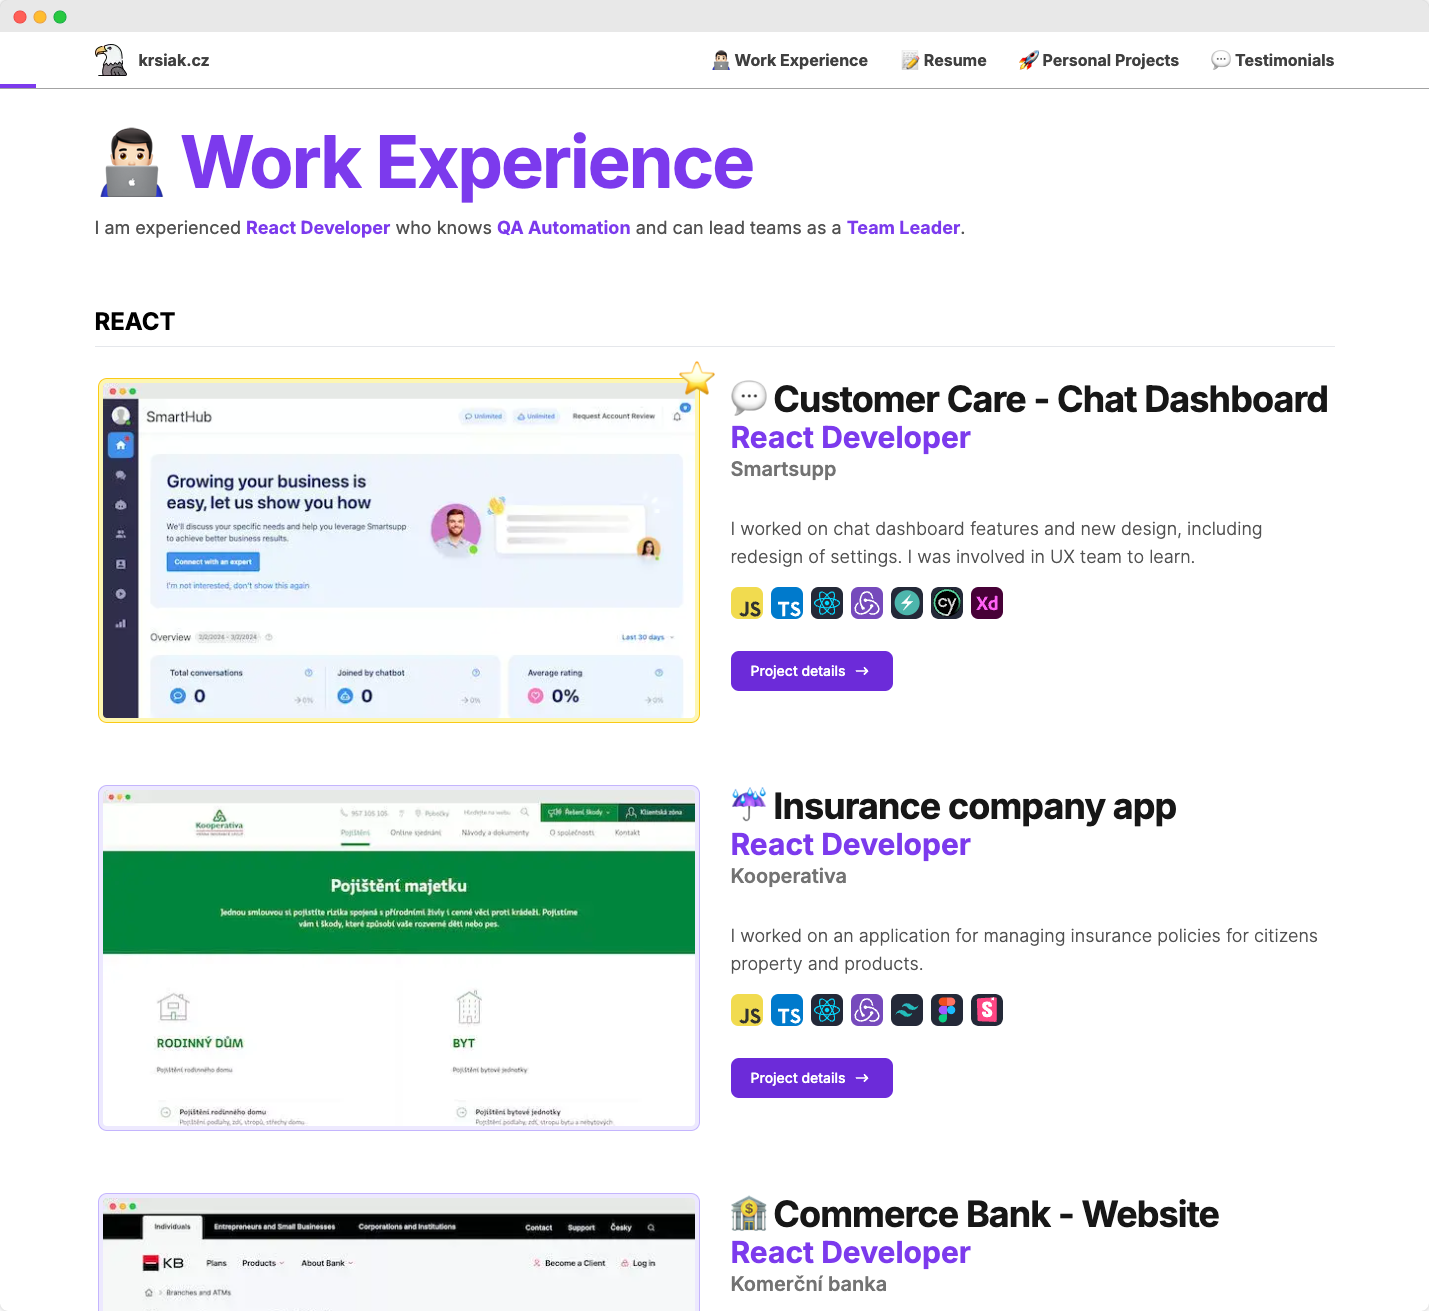
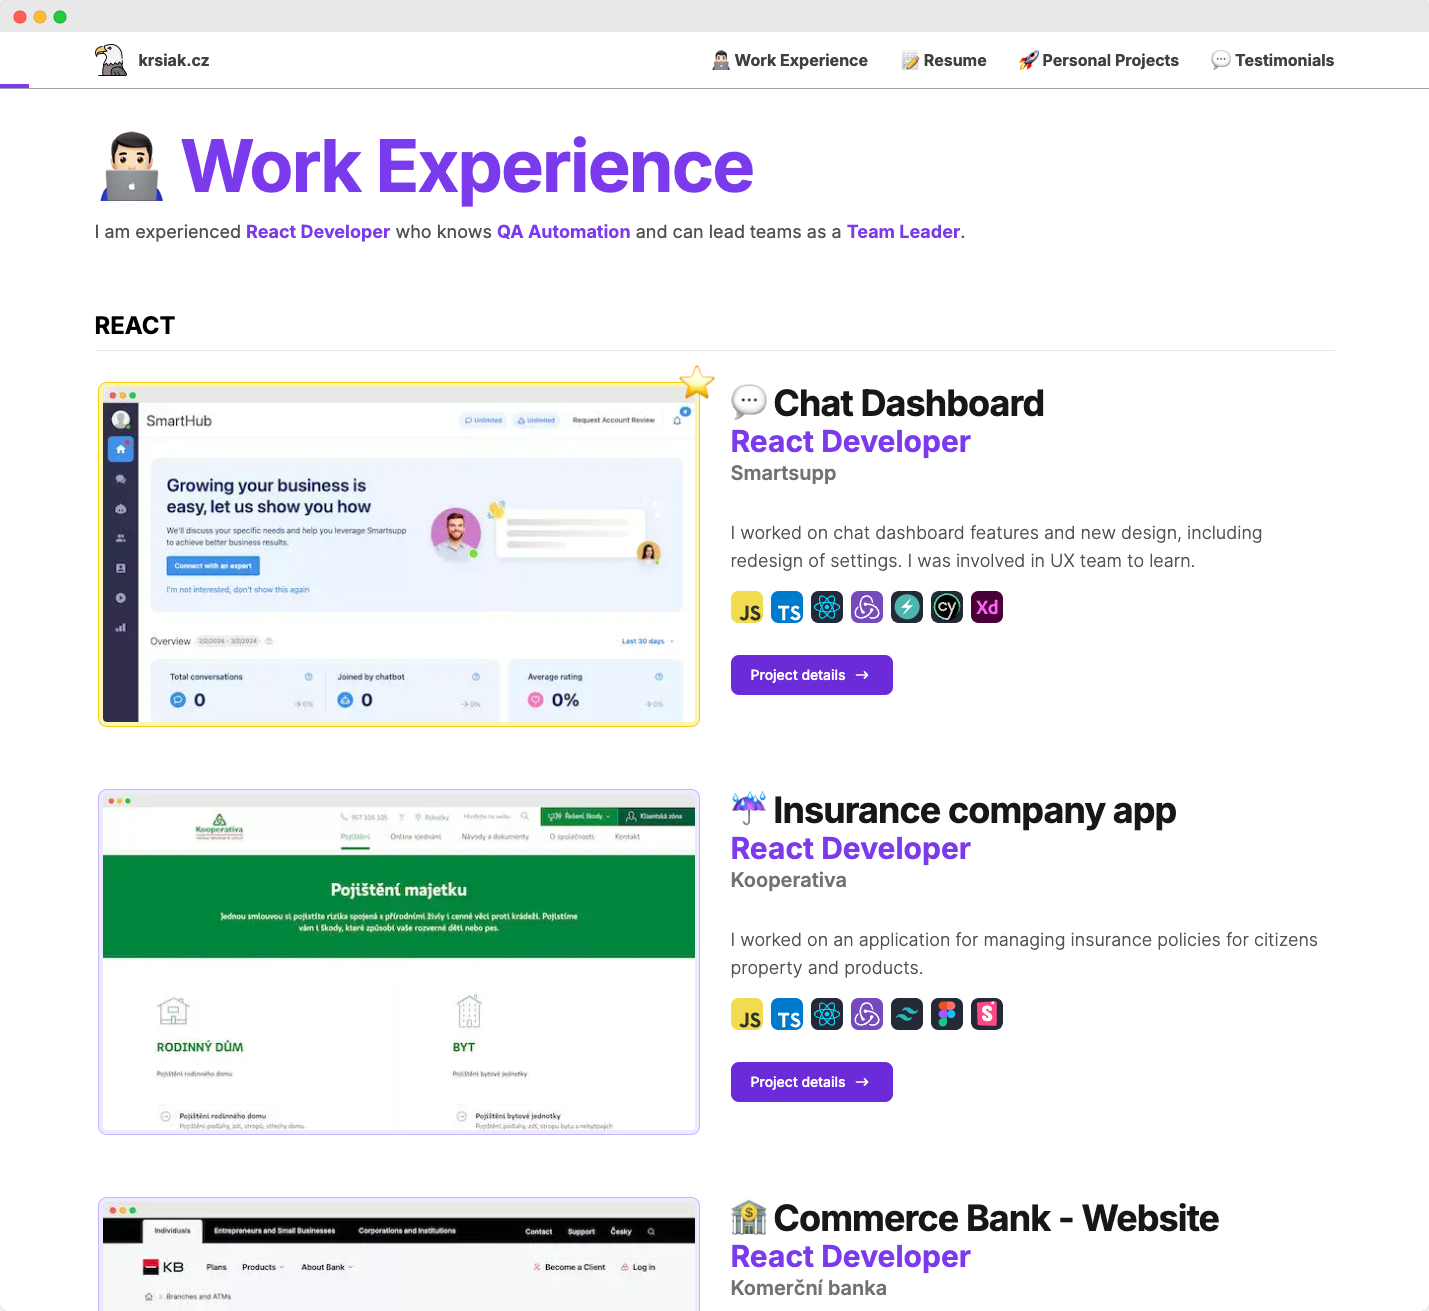
refactor(metadata): 👷 work projects (#360)

diff --git a/lib/data/metadata/pages/projects/work/metaDataSmartsuppDashboard.ts b/lib/data/metadata/pages/projects/work/metaDataSmartsuppDashboard.ts
@@ -1,11 +1,37 @@
 import { Metadata } from 'next'
 
-import { META_SMARTSUPP_DASHBOARD } from '@/localization/english'
+import { META_SMARTSUPP_DASHBOARD, TEXT } from '@/localization/english'
+
+import { PAGES_URL } from '@/lib/utils/constants/urls/pageUrls'
 
 import { getKeywordsString } from '@/lib/utils/helpers/getMetaKeywords'
+
+import smartsuppDashboardOG from '@/public/images/png/open-graph/pages/work-experience/smartsupp/smartsupp-dashboard-og.png'
+import smartsuppDashboardTwitter from '@/public/images/png/open-graph/pages/work-experience/smartsupp/smartsupp-dashboard-twitter.png'
 
 export const metaDataSmartsuppDashboard: Metadata = {
   title: META_SMARTSUPP_DASHBOARD.title,
   description: META_SMARTSUPP_DASHBOARD.description,
   keywords: getKeywordsString(META_SMARTSUPP_DASHBOARD.keywords),
+  openGraph: {
+    title: META_SMARTSUPP_DASHBOARD.title,
+    description: META_SMARTSUPP_DASHBOARD.description,
+    images: [
+      {
+        url: smartsuppDashboardOG.src,
+      },
+    ],
+    url: PAGES_URL.websiteProduction + PAGES_URL.work.smartsupp.dashboard,
+  },
+  twitter: {
+    card: 'summary_large_image',
+    title: META_SMARTSUPP_DASHBOARD.title,
+    description: META_SMARTSUPP_DASHBOARD.description,
+    images: [
+      {
+        url: smartsuppDashboardTwitter.src,
+      },
+    ],
+    site: TEXT.twitter,
+  },
 }

diff --git a/lib/data/metadata/pages/projects/work/metaDataSmartsuppHelp.ts b/lib/data/metadata/pages/projects/work/metaDataSmartsuppHelp.ts
@@ -1,11 +1,37 @@
 import { Metadata } from 'next'
 
-import { META_SMARTSUPP_HELP } from '@/localization/english'
+import { META_SMARTSUPP_HELP, TEXT } from '@/localization/english'
+
+import { PAGES_URL } from '@/lib/utils/constants/urls/pageUrls'
 
 import { getKeywordsString } from '@/lib/utils/helpers/getMetaKeywords'
+
+import smartsuppHelpOG from '@/public/images/png/open-graph/pages/work-experience/smartsupp/smartsupp-help-og.png'
+import smartsuppHelpTwitter from '@/public/images/png/open-graph/pages/work-experience/smartsupp/smartsupp-help-twitter.png'
 
 export const metaDataSmartsuppHelp: Metadata = {
   title: META_SMARTSUPP_HELP.title,
   description: META_SMARTSUPP_HELP.description,
   keywords: getKeywordsString(META_SMARTSUPP_HELP.keywords),
+  openGraph: {
+    title: META_SMARTSUPP_HELP.title,
+    description: META_SMARTSUPP_HELP.description,
+    images: [
+      {
+        url: smartsuppHelpOG.src,
+      },
+    ],
+    url: PAGES_URL.websiteProduction + PAGES_URL.work.smartsupp.help,
+  },
+  twitter: {
+    card: 'summary_large_image',
+    title: META_SMARTSUPP_HELP.title,
+    description: META_SMARTSUPP_HELP.description,
+    images: [
+      {
+        url: smartsuppHelpTwitter.src,
+      },
+    ],
+    site: TEXT.twitter,
+  },
 }

diff --git a/lib/data/metadata/pages/projects/work/metaDataSmartsuppWeb.ts b/lib/data/metadata/pages/projects/work/metaDataSmartsuppWeb.ts
@@ -1,11 +1,37 @@
 import { Metadata } from 'next'
 
-import { META_SMARTSUPP_WEB } from '@/localization/english'
+import { META_SMARTSUPP_WEB, TEXT } from '@/localization/english'
+
+import { PAGES_URL } from '@/lib/utils/constants/urls/pageUrls'
 
 import { getKeywordsString } from '@/lib/utils/helpers/getMetaKeywords'
+
+import smartsuppWebOG from '@/public/images/png/open-graph/pages/work-experience/smartsupp/smartsupp-web-og.png'
+import smartsuppWebTwitter from '@/public/images/png/open-graph/pages/work-experience/smartsupp/smartsupp-web-twitter.png'
 
 export const metaDataSmartsuppWeb: Metadata = {
   title: META_SMARTSUPP_WEB.title,
   description: META_SMARTSUPP_WEB.description,
   keywords: getKeywordsString(META_SMARTSUPP_WEB.keywords),
+  openGraph: {
+    title: META_SMARTSUPP_WEB.title,
+    description: META_SMARTSUPP_WEB.description,
+    images: [
+      {
+        url: smartsuppWebOG.src,
+      },
+    ],
+    url: PAGES_URL.websiteProduction + PAGES_URL.work.smartsupp.web,
+  },
+  twitter: {
+    card: 'summary_large_image',
+    title: META_SMARTSUPP_WEB.title,
+    description: META_SMARTSUPP_WEB.description,
+    images: [
+      {
+        url: smartsuppWebTwitter.src,
+      },
+    ],
+    site: TEXT.twitter,
+  },
 }

diff --git a/lib/data/metadata/pages/projects/work/metaDataKomercniBanka.ts b/lib/data/metadata/pages/projects/work/metaDataKomercniBanka.ts
@@ -1,11 +1,37 @@
 import { Metadata } from 'next'
 
-import { META_KOMERCNI_BANKA } from '@/localization/english'
+import { META_KOMERCNI_BANKA, TEXT } from '@/localization/english'
+
+import { PAGES_URL } from '@/lib/utils/constants/urls/pageUrls'
 
 import { getKeywordsString } from '@/lib/utils/helpers/getMetaKeywords'
+
+import komercniBankaOG from '@/public/images/png/open-graph/pages/work-experience/komercni-banka-og.png'
+import komercniBankaTwitter from '@/public/images/png/open-graph/pages/work-experience/komercni-banka-twitter.png'
 
 export const metaDataKomercniBanka: Metadata = {
   title: META_KOMERCNI_BANKA.title,
   description: META_KOMERCNI_BANKA.description,
   keywords: getKeywordsString(META_KOMERCNI_BANKA.keywords),
+  openGraph: {
+    title: META_KOMERCNI_BANKA.title,
+    description: META_KOMERCNI_BANKA.description,
+    images: [
+      {
+        url: komercniBankaOG.src,
+      },
+    ],
+    url: PAGES_URL.websiteProduction + PAGES_URL.work.komercniBanka,
+  },
+  twitter: {
+    card: 'summary_large_image',
+    title: META_KOMERCNI_BANKA.title,
+    description: META_KOMERCNI_BANKA.description,
+    images: [
+      {
+        url: komercniBankaTwitter.src,
+      },
+    ],
+    site: TEXT.twitter,
+  },
 }

diff --git a/lib/data/metadata/pages/projects/work/metaDataKooperativa.ts b/lib/data/metadata/pages/projects/work/metaDataKooperativa.ts
@@ -1,11 +1,37 @@
 import { Metadata } from 'next'
 
-import { META_KOOPERATIVA } from '@/localization/english'
+import { META_KOOPERATIVA, TEXT } from '@/localization/english'
+
+import { PAGES_URL } from '@/lib/utils/constants/urls/pageUrls'
 
 import { getKeywordsString } from '@/lib/utils/helpers/getMetaKeywords'
+
+import kooperativaOG from '@/public/images/png/open-graph/pages/work-experience/kooperativa-og.png'
+import kooperativaTwitter from '@/public/images/png/open-graph/pages/work-experience/kooperativa-twitter.png'
 
 export const metaDataKooperativa: Metadata = {
   title: META_KOOPERATIVA.title,
   description: META_KOOPERATIVA.description,
   keywords: getKeywordsString(META_KOOPERATIVA.keywords),
+  openGraph: {
+    title: META_KOOPERATIVA.title,
+    description: META_KOOPERATIVA.description,
+    images: [
+      {
+        url: kooperativaOG.src,
+      },
+    ],
+    url: PAGES_URL.websiteProduction + PAGES_URL.work.kooperativa,
+  },
+  twitter: {
+    card: 'summary_large_image',
+    title: META_KOOPERATIVA.title,
+    description: META_KOOPERATIVA.description,
+    images: [
+      {
+        url: kooperativaTwitter.src,
+      },
+    ],
+    site: TEXT.twitter,
+  },
 }

diff --git a/lib/data/metadata/pages/projects/work/metaDataGroupon.ts b/lib/data/metadata/pages/projects/work/metaDataGroupon.ts
@@ -1,11 +1,37 @@
 import { Metadata } from 'next'
 
-import { META_GROUPON } from '@/localization/english'
+import { META_GROUPON, TEXT } from '@/localization/english'
+
+import { PAGES_URL } from '@/lib/utils/constants/urls/pageUrls'
 
 import { getKeywordsString } from '@/lib/utils/helpers/getMetaKeywords'
+
+import grouponOG from '@/public/images/png/open-graph/pages/work-experience/groupon-og.png'
+import grouponTwitter from '@/public/images/png/open-graph/pages/work-experience/groupon-twitter.png'
 
 export const metaDataGroupon: Metadata = {
   title: META_GROUPON.title,
   description: META_GROUPON.description,
   keywords: getKeywordsString(META_GROUPON.keywords),
+  openGraph: {
+    title: META_GROUPON.title,
+    description: META_GROUPON.description,
+    images: [
+      {
+        url: grouponOG.src,
+      },
+    ],
+    url: PAGES_URL.websiteProduction + PAGES_URL.work.groupon,
+  },
+  twitter: {
+    card: 'summary_large_image',
+    title: META_GROUPON.title,
+    description: META_GROUPON.description,
+    images: [
+      {
+        url: grouponTwitter.src,
+      },
+    ],
+    site: TEXT.twitter,
+  },
 }

diff --git a/lib/data/metadata/pages/projects/work/metaDataMoravia.ts b/lib/data/metadata/pages/projects/work/metaDataMoravia.ts
@@ -1,11 +1,37 @@
 import { Metadata } from 'next'
 
-import { META_MORAVIA } from '@/localization/english'
+import { META_MORAVIA, TEXT } from '@/localization/english'
+
+import { PAGES_URL } from '@/lib/utils/constants/urls/pageUrls'
 
 import { getKeywordsString } from '@/lib/utils/helpers/getMetaKeywords'
+
+import moraviaOG from '@/public/images/png/open-graph/pages/work-experience/moravia-og.png'
+import moraviaTwitter from '@/public/images/png/open-graph/pages/work-experience/moravia-twitter.png'
 
 export const metaDataMoravia: Metadata = {
   title: META_MORAVIA.title,
   description: META_MORAVIA.description,
   keywords: getKeywordsString(META_MORAVIA.keywords),
+  openGraph: {
+    title: META_MORAVIA.title,
+    description: META_MORAVIA.description,
+    images: [
+      {
+        url: moraviaOG.src,
+      },
+    ],
+    url: PAGES_URL.websiteProduction + PAGES_URL.work.moravia,
+  },
+  twitter: {
+    card: 'summary_large_image',
+    title: META_MORAVIA.title,
+    description: META_MORAVIA.description,
+    images: [
+      {
+        url: moraviaTwitter.src,
+      },
+    ],
+    site: TEXT.twitter,
+  },
 }

diff --git a/lib/data/metadata/shared/defaultMetaData.ts b/lib/data/metadata/shared/defaultMetaData.ts
@@ -7,13 +7,13 @@ import { PAGES_URL } from '@/lib/utils/constants/urls/pageUrls'
 import { getKeywordsString } from '@/lib/utils/helpers/getMetaKeywords'
 
 export const defaultMetaData: Metadata = {
-  metadataBase: new URL(PAGES_URL.fullWebsiteUrl),
+  metadataBase: new URL(PAGES_URL.websiteProduction),
   title: META_DEFAULT.title,
   description: META_DEFAULT.description,
   keywords: getKeywordsString(META_DEFAULT.keywords),
   generator: META_DEFAULT.generator,
   applicationName: META_DEFAULT.applicationName,
-  authors: [{ name: COMMON_VALUES.nameDanielKrsiak, url: PAGES_URL.fullWebsiteUrl }],
+  authors: [{ name: COMMON_VALUES.nameDanielKrsiak, url: PAGES_URL.websiteProduction }],
   referrer: 'origin-when-cross-origin',
   manifest: '/manifest.webmanifest',
   robots: 'index, follow',

diff --git a/lib/utils/constants/urls/pageUrls.ts b/lib/utils/constants/urls/pageUrls.ts
@@ -1,12 +1,13 @@
 import { getUrlPersonalProject, getUrlWorkExperience } from '@/lib/utils/helpers/getPageUrls'
 
-export const FULL_WEBSITE_URL = 'https://krsiak.cz'
+const URL_WEBSITE_PRODUCTION = 'https://krsiak.cz'
 
+// TODO: refactor, remove export, update all usages in files
 export const URL_WORK_EXPERIENCE = '/work-experience'
 export const URL_PERSONAL_PROJECTS = '/personal-projects'
 
 export const PAGES_URL = {
-  fullWebsiteUrl: FULL_WEBSITE_URL,
+  websiteProduction: URL_WEBSITE_PRODUCTION,
   localhost: 'http://localhost:3000',
   home: '/',
   resume: '/resume',

diff --git a/localization/english.ts b/localization/english.ts
@@ -289,7 +289,7 @@ export const META_SMARTSUPP_DASHBOARD = {
     nameDanielKrsiak: COMMON_VALUES.nameDanielKrsiak,
     reactDeveloper: COMMON_VALUES.reactDeveloper,
     smartsuppDashboard: 'Smartsupp Dashboard',
-    customerCareChatDashboard: 'Customer Care - Chat Dashboard',
+    customerCareChatDashboard: 'Chat Dashboard',
     javaScript: COMMON_VALUES.javaScript,
     typeScript: COMMON_VALUES.typeScript,
     react: COMMON_VALUES.react,

diff --git a/lib/data/pages/projects/work/projects-overview/react/workReactSmartsuppDashboard.ts b/lib/data/pages/projects/work/projects-overview/react/workReactSmartsuppDashboard.ts
@@ -22,7 +22,7 @@ export const workReactSmartsuppDashboard: Project = {
     { id: 2, src: smartsuppDashboard3.src },
     { id: 4, src: smartsuppDashboard4.src },
   ],
-  title: '💬 Customer Care - Chat Dashboard',
+  title: '💬 Chat Dashboard',
   company: 'Smartsupp',
   role: 'React Developer',
   years: '3\u00A0years 2\u00A0months',

diff --git a/lib/data/metadata/pages/projects/metaDataPersonalProjects.ts b/lib/data/metadata/pages/projects/metaDataPersonalProjects.ts
@@ -21,7 +21,7 @@ export const metaDataPersonalProjects: Metadata = {
         url: personalProjectsOverviewOG.src,
       },
     ],
-    url: PAGES_URL.fullWebsiteUrl + PAGES_URL.personal.mainUrl,
+    url: PAGES_URL.websiteProduction + PAGES_URL.personal.mainUrl,
   },
   twitter: {
     card: 'summary_large_image',
